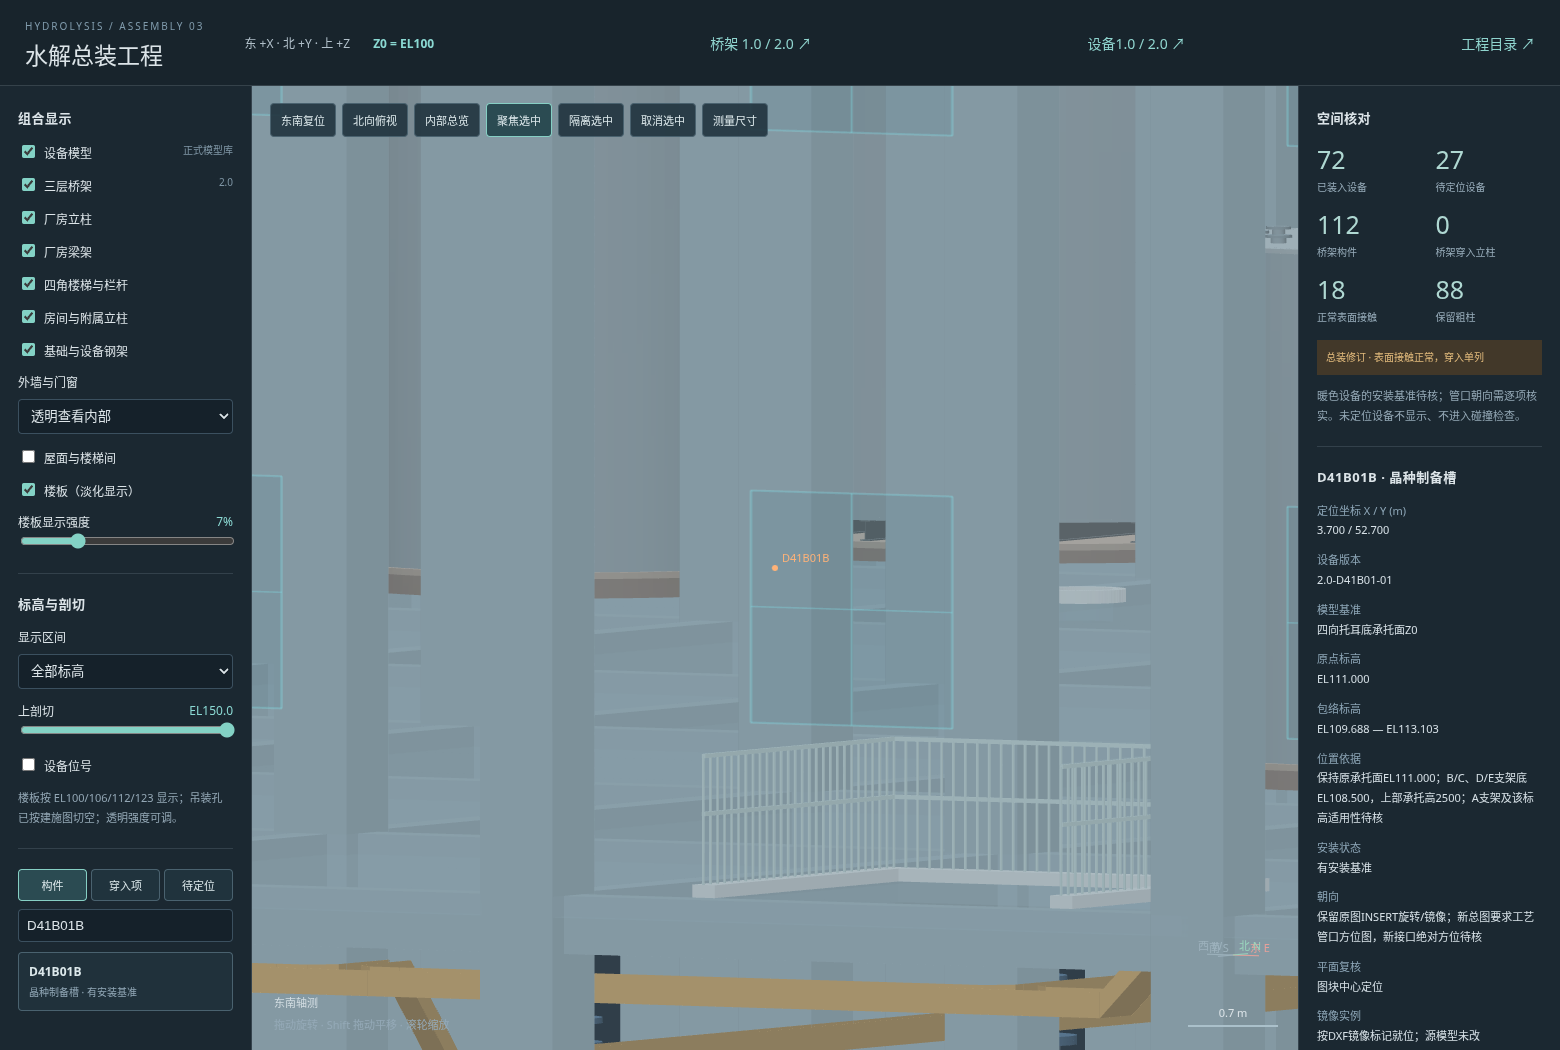
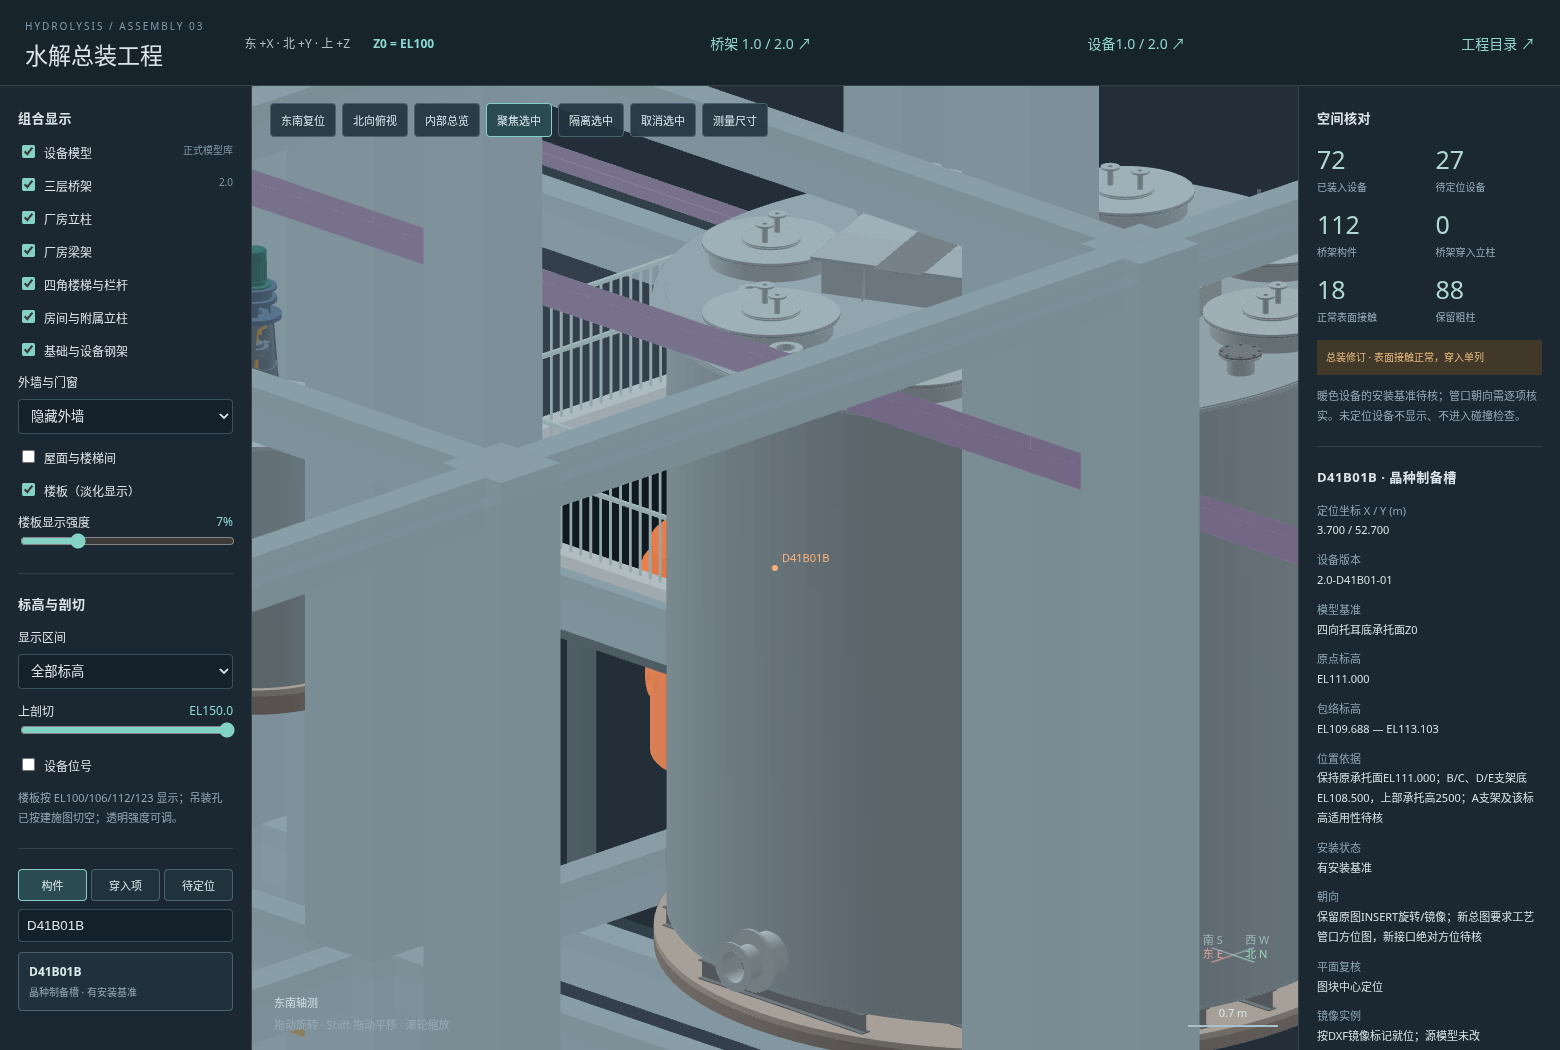
docs(equipment): show D41B01 installation from inside the building

diff --git a/水解设备模型库/tools/test_d41b01_browser.py b/水解设备模型库/tools/test_d41b01_browser.py
@@ -42,7 +42,8 @@ with sync_playwright() as pw:
  assert page.evaluate('assemblyViewer.cfg.equipment.filter(p=>p.asset==="D41B01"&&p.equipment_version==="2.0-D41B01-01"&&p.position_mm[2]===11000).length')==5
  assert page.evaluate('assemblyViewer.cfg.foundations.filter(p=>p.asset==="foundation-D41B01").length')==2
  assert page.evaluate('assemblyViewer.cfg.equipment.find(p=>p.id==="D41B01A").z_status')=='待核'
- page.locator('#inside').click();page.locator('#search').fill('D41B01B');page.locator('#list button').first.click();page.locator('#focus').click();page.wait_for_timeout(200);page.screenshot(path=str(OUT/'预览_总装定位.png'))
+ page.locator('#inside').click();page.locator('#shell').select_option('hidden');page.evaluate('assemblyViewer.setView(Math.PI/4,.35)')
+ page.locator('#search').fill('D41B01B');page.locator('#list button').first.click();page.locator('#focus').click();page.wait_for_timeout(200);page.screenshot(path=str(OUT/'预览_总装定位.png'))
  checks['total_five_devices_two_pairs_no_A_support']=True
  assert not errors,errors;assert not failed,failed
  browser.close()
